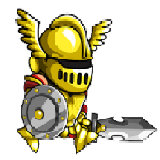
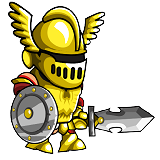
animation marche saut du warrior et assets

diff --git a/animation.py b/animation.py
@@ -6,18 +6,25 @@ class AnimateSprite(pygame.sprite.Sprite):
         super().__init__()
         self.image = pygame.image.load(f'assets/{sprite_name}/attaque/{sprite_name}.png')
         self.image_walk = pygame.image.load(f'assets/{sprite_name}/marcher/{sprite_name}.png')
+        self.image_jump = pygame.image.load(f'assets/{sprite_name}/jump/{sprite_name}.png')
         self.current_image = 1
         self.current_image_walk = 1
+        self.current_image_jump = 1
         self.images = animations.get(sprite_name)
         self.images_walk = animations.get(f'{sprite_name}_walk')
+        self.images_jump = animations.get(f'{sprite_name}_jump')
         self.animation = False
         self.animation_walk = False
+        self.animation_jump = False
 
     def start_animation(self):
         self.animation = True
 
     def start_animation_walk(self):
         self.animation_walk = True
+
+    def start_animation_jump(self):
+        self.animation_jump = True
 
 
     def animate(self, loop=False):
@@ -32,9 +39,9 @@ class AnimateSprite(pygame.sprite.Sprite):
 
             self.image = self.images[math.floor(self.current_image)]
 
-        elif (self.animation_walk):
+        if (self.animation_walk):
 
-            self.current_image_walk += 0.6
+            self.current_image_walk += 0.1
 
             if self.current_image_walk >= len(self.images_walk):
                 self.current_image_walk = 0
@@ -42,6 +49,17 @@ class AnimateSprite(pygame.sprite.Sprite):
                     self.animation_walk = False
 
             self.image = self.images_walk[math.floor(self.current_image_walk)]
+
+        if (self.animation_jump):
+
+            self.current_image_jump += 0.025
+
+            if self.current_image_jump >= len(self.images_jump):
+                self.current_image_jump = 0
+                if loop is False:
+                    self.animation_jump = False
+
+            self.image = self.images_jump[math.floor(self.current_image_jump)]
 
 
  # fonction pour charger les images
@@ -70,12 +88,26 @@ def load_animation_images_walk(sprite_name):
         return images
 
 
+def load_animation_images_jump(sprite_name):
+        images = []
+
+        path = f'assets/{sprite_name}/jump/{sprite_name}'
+
+        for num in range(1, 9):
+            image_path = path + str(num) + '.png'
+
+            images.append(pygame.image.load(image_path))
+
+        return images
+
+
     # dictionnaire qui contient les images chargées
 
 
 animations = {
             'warrior': load_animation_images('warrior'),
-            'warrior_walk': load_animation_images_walk('warrior')
+            'warrior_walk': load_animation_images_walk('warrior'),
+            'warrior_jump': load_animation_images_jump('warrior')
     }
 
 

diff --git a/projectiles.py b/projectiles.py
@@ -55,3 +55,51 @@ class InvincibiliteWarrior():
         self.player = player
         self.player.InvincibiliteWarrior = True
         self.player.InvincibiliteWarriorTime = time.time() + 5
+
+
+class ProjectileAssassin(pygame.sprite.Sprite):
+    def __init__(self, player, dir):
+        super().__init__()
+        self.velocity = 2
+        self.image = pygame.image.load('assets/assassin/dague.png')
+        self.image = pygame.transform.scale(self.image, (50,50))
+        self.rect = self.image.get_rect()
+        self.rect.x = player.rect.x + 120
+        self.rect.y = player.rect.y + 50
+        self.origin_image = self.image
+        self.angle = 0
+        self.player = player
+        self.dir = dir
+
+
+        if dir == "gauche":
+            self.image = pygame.transform.rotate(self.image, 180)
+
+        self.player.damage(10)
+
+
+
+    def rotate(self):
+        self.angle += -3
+        self.image = pygame.transform.rotozoom(self.origin_image, self.angle, 1)
+        self.rect = self.image.get_rect(center=self.rect.center)
+
+    def remove(self):
+        self.player.all_projectiles.remove(self)
+    def move(self):
+        self.rotate()
+
+        # vérifier si projectile entre en collide
+
+        for cible in self.player.game.check_collision(self, self.player.game.all_players):
+            if cible != self.player:
+                self.remove()
+                cible.damage(self.player.attack)
+
+
+        if self.dir == "gauche":
+            self.rect.x -= self.velocity
+        else:
+            self.rect.x += self.velocity
+        if self.rect.x > 1280 or self.rect.x < 0:
+            self.remove()

diff --git a/players.py b/players.py
@@ -23,6 +23,9 @@ class Player1(animation.AnimateSprite):
         self.rect = self.image.get_rect()
         self.rect.y = 400
 
+        if dir == "gauche":
+            self.image = pygame.transform.rotate(self.image, 180)
+
 
 
         self.attack1_cd = 1.5
@@ -43,6 +46,7 @@ class Player1(animation.AnimateSprite):
     def move_up(self):
         self.isJump = True
         self.jumpEnd = time.time() + 1
+        self.start_animation_jump()
 
     def damage(self, amount):
         if (self.InvincibiliteWarrior):
@@ -74,7 +78,9 @@ class Player1(animation.AnimateSprite):
 
 class Player2(animation.AnimateSprite):
     def __init__(self, classe, game):
-        super().__init__("warrior")
+        self.attack1 = None
+        if classe == "guerrier":
+            super().__init__("warrior")
         self.health = 100
         self.maxhealth = 100
         self.all_projectiles = pygame.sprite.Group()

diff --git a/game.py b/game.py
@@ -22,3 +22,4 @@ class Game:
 
         # actualiser l'animation du joueur
         self.player1.update_animation()
+        self.player2.update_animation()
